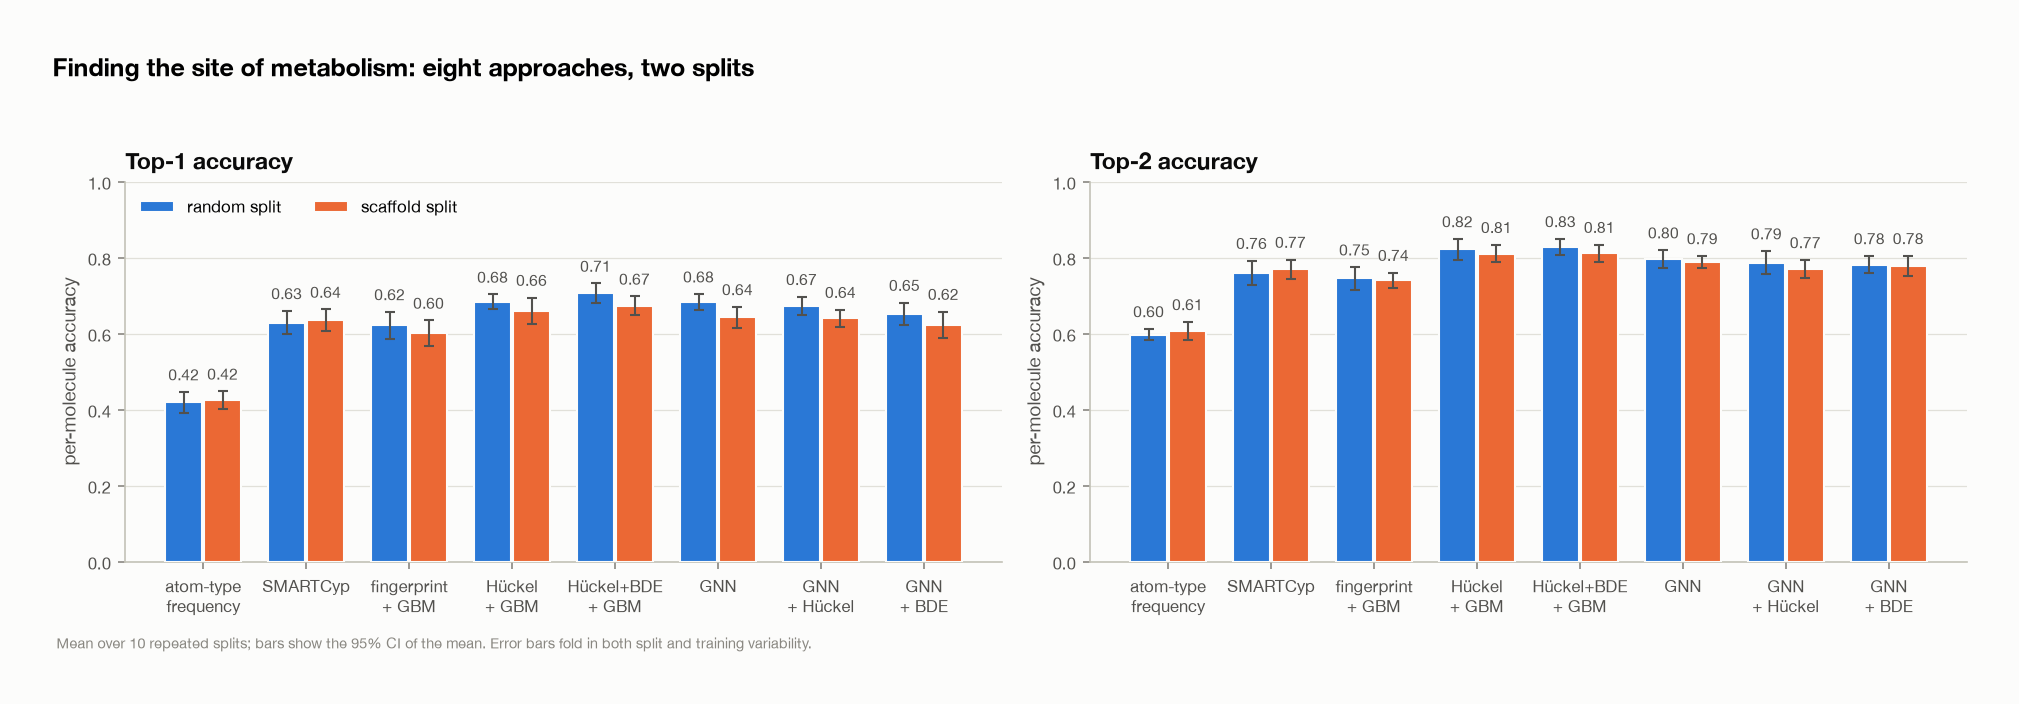
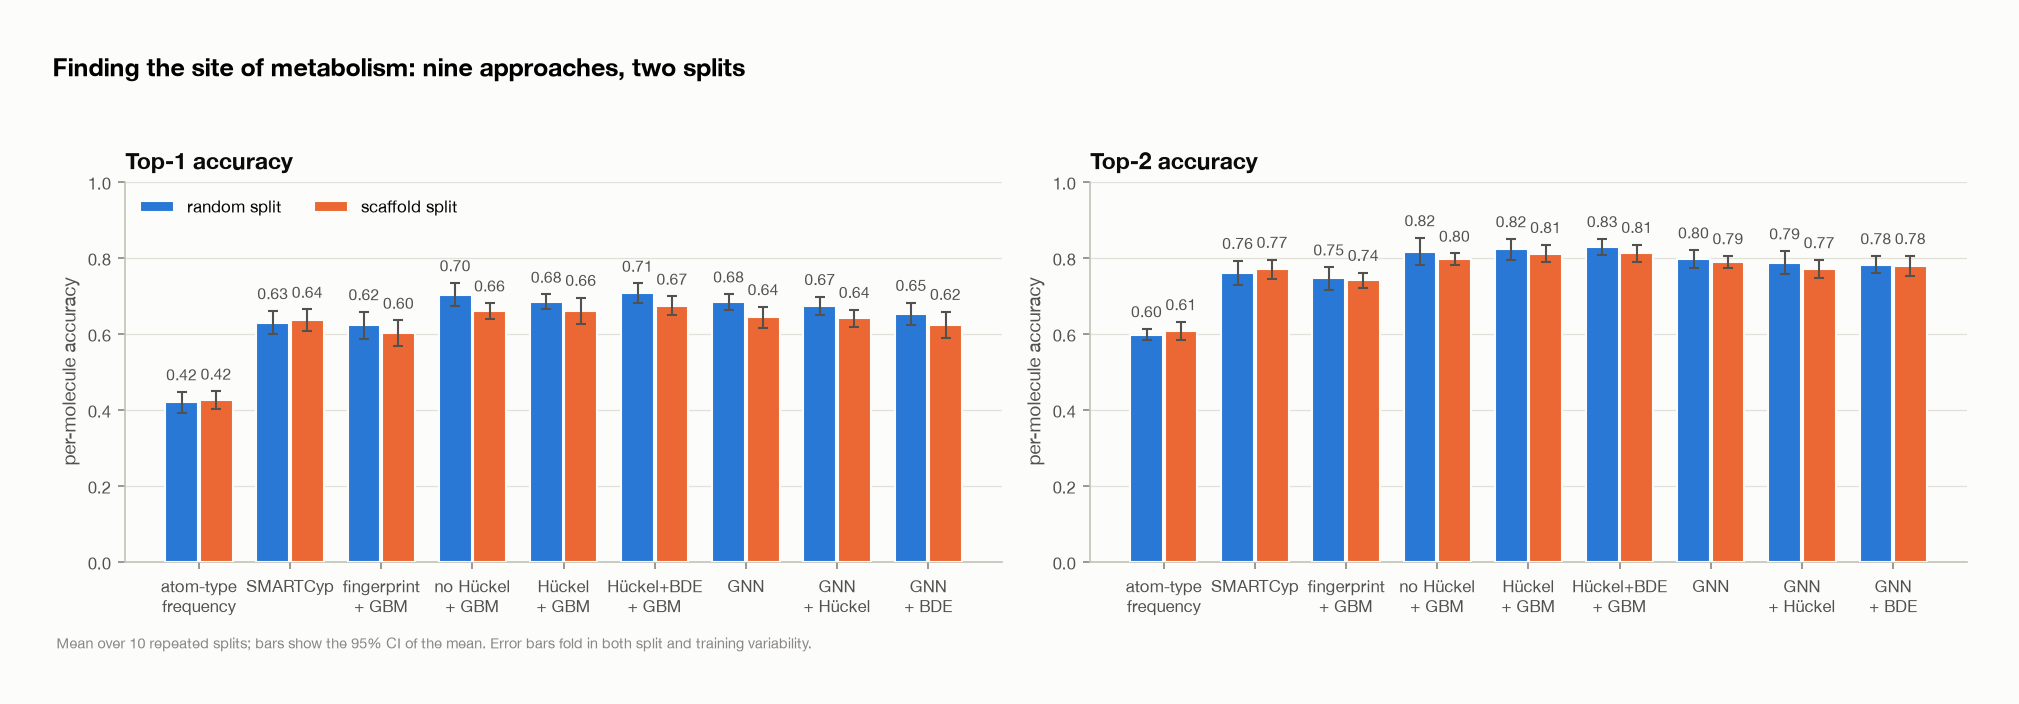
ablation: the 21 Hückel columns contribute nothing to the GBM
Adds `basic_gbm`: the same gradient-boosted estimator fitted on the `graph`
feature kind, which is exactly `phys` with huckel_block dropped and is already
asserted to be a strict prefix of it. So this isolates the Hückel theory with
estimator, splits and labels held fixed.

phys_gbm - basic_gbm, scaffold splits: top-1 +0.0007 (p = 0.96), top-2 +0.015
(p = 0.18), ROC-AUC +0.004 (p = 0.25), AP -0.016 (p = 0.11). Pooled, the only
nominally significant metric is average precision, at -0.013 (p = 0.033) --
negative. The feature-set advantage over the 1024-bit fingerprint survives
without them (+0.059 top-1 scaffold-only, p = 0.0026).

This contradicts the reading the coefficient table invites, where
huckel_free_valence is the largest non-trivial coefficient with the correct
sign. Association, not necessary information: the Hückel quantities are
largely recoverable from the atom and bond features that remain. README, the
lead bullet, and docs/HUCKEL_DESCRIPTORS.md now say so in place.

Two further consequences:
- basic_gbm and the plain GNN receive byte-identical features, so that pair is
  now the cleanest model-class comparison here. It favours the trees pooled
  (top-1 +0.019 p = 0.018, AP +0.040 p = 0.0016) but reaches significance on
  no metric on the 10 scaffold splits alone. Stated as underpowered rather
  than as support.
- The BDE top-1 gain quoted in the README was pooled; scaffold-only it is
  +0.014, p = 0.16. Corrected in place.

Changed region(s): [[0.5617, 0.3125, 0.9673, 0.875], [0.0624, 0.375, 0.4681, 0.875], [0.2184, 0.0625, 0.3744, 0.125]]

diff --git a/src/som/models.py b/src/som/models.py
@@ -68,8 +68,8 @@ from .features import AtomTable, build_atom_table, isoform_onehot
 from .splits import Split, atom_mask
 
 MODELS = (
-    "prior", "smartcyp", "fp_gbm", "phys_gbm", "gnn", "gnn_huckel",
-    "phys_bde_gbm", "gnn_bde",
+    "prior", "smartcyp", "fp_gbm", "basic_gbm", "phys_gbm", "gnn",
+    "gnn_huckel", "phys_bde_gbm", "gnn_bde",
 )
 
 #: SMARTCyp ships isoform-specific variants for 2D6 and for the 2C subfamily;
@@ -372,7 +372,7 @@ def _fit_gbm(
     p_va = clf.predict_proba(Xva)[:, 1]
 
     importance: dict[str, float] = {}
-    if kind == "phys":
+    if kind in ("phys", "graph"):
         # a linear model on the same features, fitted only so that signed
         # coefficients can be reported; it is not used for predictions
         lin = make_pipeline(
@@ -840,6 +840,13 @@ def fit_predict(
         pred = _fit_smartcyp(instances, table, split, label_field)
     elif name == "fp_gbm":
         pred = _fit_gbm("fp_gbm", "fp", instances, split, label_field, seed, tune)
+    elif name == "basic_gbm":
+        # phys minus the 21 Hückel columns. The `graph` kind is exactly the
+        # `phys` block with huckel_block dropped (and is a strict prefix of
+        # it), so this isolates what the Hückel theory contributes while the
+        # estimator, splits and labels are held fixed.
+        pred = _fit_gbm("basic_gbm", "graph", instances, split,
+                        label_field, seed, tune)
     elif name == "phys_gbm":
         pred = _fit_gbm("phys_gbm", "phys", instances, split, label_field, seed, tune)
     elif name == "phys_bde_gbm":

diff --git a/tests/test_features.py b/tests/test_features.py
@@ -115,3 +115,35 @@ def test_atom_count_mismatch_is_caught():
             "n_sources": 1}]
     with pytest.raises(ValueError, match="atom count mismatch"):
         build_atom_table(bad, "phys")
+
+
+def test_the_huckel_ablation_model_uses_the_graph_feature_set(monkeypatch):
+    """`basic_gbm` must be `phys_gbm` minus the Hückel block, nothing else.
+
+    The phys_gbm - basic_gbm comparison is only an ablation of Hückel theory
+    if basic_gbm is fitted on exactly the `phys` columns with huckel_block
+    dropped. `graph` is that set (asserted above to be a strict prefix of
+    `phys`), so this pins the dispatch to it by intercepting the fit rather
+    than by matching source text.
+    """
+    from som import models
+
+    seen = {}
+
+    def spy(name, kind, *a, **kw):
+        seen["kind"] = kind
+        raise _Stop
+
+    class _Stop(Exception):
+        pass
+
+    monkeypatch.setattr(models, "_fit_gbm", spy)
+    try:
+        models.fit_predict("basic_gbm", [], None, "som_all", 0)
+    except Exception:
+        pass
+    assert seen.get("kind") == "graph", (
+        "basic_gbm must be fitted on the 'graph' feature kind; if the "
+        f"dispatch changed (saw {seen.get('kind')!r}), the Hückel ablation "
+        "no longer isolates Hückel"
+    )

diff --git a/scripts/06_report.py b/scripts/06_report.py
@@ -12,7 +12,8 @@ import json
 from som.paths import RESULTS
 from som.viz import MODEL_LABELS
 
-ORDER = ["prior", "smartcyp", "fp_gbm", "phys_gbm", "phys_bde_gbm", "gnn", "gnn_huckel", "gnn_bde"]
+ORDER = ["prior", "smartcyp", "fp_gbm", "basic_gbm", "phys_gbm",
+         "phys_bde_gbm", "gnn", "gnn_huckel", "gnn_bde"]
 
 
 def read(name):
@@ -197,6 +198,14 @@ def main() -> None:
              "does giving the GNN the Hückel descriptors help?"),
             ("phys_gbm", "gnn_huckel",
              "same features, different model class"),
+            ("phys_gbm", "basic_gbm",
+             "what the 21 Hückel columns contribute, estimator held fixed"),
+            ("basic_gbm", "gnn",
+             "identical features, different estimator: the cleanest "
+             "model-class comparison here"),
+            ("basic_gbm", "fp_gbm",
+             "hand-built atom/bond features vs hashed environments, "
+             "no Hückel theory involved"),
             ("phys_gbm", "fp_gbm",
              "physics descriptors vs hashed environments"),
             ("phys_gbm", "prior",

diff --git a/src/som/viz.py b/src/som/viz.py
@@ -17,6 +17,7 @@ import matplotlib.pyplot as plt
 SERIES = [
     "#2a78d6", "#eb6834", "#1baf7a", "#eda100",
     "#e87ba4", "#008300", "#6250d6", "#e34948",
+    "#00868b",
 ]
 
 #: single hue for sequential/ordinal magnitude
@@ -35,6 +36,7 @@ ON_FILL = {"#eda100": "#0b0b0b"}
 MODEL_LABELS = {
     "prior": "atom-type frequency",
     "fp_gbm": "fingerprint + GBM",
+    "basic_gbm": "atom/bond features + GBM (no Hückel)",
     "phys_gbm": "Hückel physics + GBM",
     "gnn": "message-passing GNN",
     "smartcyp": "SMARTCyp (published method)",
@@ -47,6 +49,7 @@ MODEL_LABELS = {
 MODEL_LABELS_SHORT = {
     "prior": "atom-type\nfrequency",
     "fp_gbm": "fingerprint\n+ GBM",
+    "basic_gbm": "no Hückel\n+ GBM",
     "phys_gbm": "Hückel\n+ GBM",
     "gnn": "GNN",
     "smartcyp": "SMARTCyp",

diff --git a/scripts/03_evaluate.py b/scripts/03_evaluate.py
@@ -143,8 +143,10 @@ def main() -> None:
                       f"auc {raw['roc_auc']:.3f}  ap {raw['avg_precision']:.3f}  "
                       f"ece {raw['ece']:.3f}  ({dt:.0f}s)")
 
-                if name == "phys_gbm" and pred.feature_importance and seed == 0:
-                    out = RESULTS / f"phys_linear_coefficients_{mode}.csv"
+                if (name in ("phys_gbm", "basic_gbm")
+                        and pred.feature_importance and seed == 0):
+                    stem = ("phys" if name == "phys_gbm" else "basic")
+                    out = RESULTS / f"{stem}_linear_coefficients_{mode}.csv"
                     with out.open("w", newline="") as fh:
                         w = csv.writer(fh)
                         w.writerow(["feature", "coefficient"])

diff --git a/scripts/05_figures.py b/scripts/05_figures.py
@@ -32,7 +32,7 @@ from som.viz import (
 )
 
 ORDER = [
-    "prior", "smartcyp", "fp_gbm", "phys_gbm", "phys_bde_gbm",
+    "prior", "smartcyp", "fp_gbm", "basic_gbm", "phys_gbm", "phys_bde_gbm",
     "gnn", "gnn_huckel", "gnn_bde",
 ]
 
@@ -114,7 +114,7 @@ def fig_main(summary):
 
     axes[0].legend(loc="upper left", ncols=2, bbox_to_anchor=(0, 1.0))
     fig.suptitle(
-        "Finding the site of metabolism: eight approaches, two splits",
+        "Finding the site of metabolism: nine approaches, two splits",
         x=0.008, ha="left", fontsize=12, fontweight="semibold",
     )
     footnote(

diff --git a/README.md b/README.md
@@ -19,8 +19,11 @@ Three results worth more than that number:
 
 - **A 2010 SMARTS lookup table beats two of the six trained models.** SMARTCyp
   touches no training data and lands within 0.058 top-1 of the best model here.
-- **A 55-feature physics set, 21 of them Hückel-derived, beats 1024 hashed fingerprint bits**
-  (+0.061 top-1, p < 0.0001) and beat a GNN given identical inputs.
+- **A 55-feature physics set beats 1024 hashed fingerprint bits** (+0.061
+  top-1, p < 0.0001) — but an ablation shows the 21 Hückel-derived columns
+  contribute **nothing** to that (+0.001 top-1, p = 0.96, scaffold splits).
+  The cheap atom and bond context does the work; the π-system theory is
+  decorative, despite having the largest non-trivial coefficient.
 - **A twelve-point hyperparameter search for the GNN found nothing** — and the
   measurement had to be fixed first, because nondeterministic thread scheduling
   was producing run-to-run noise larger than the differences being searched
@@ -85,6 +88,7 @@ The scaffold split is the one to read first.
 | atom-type frequency | 0.425 [0.402, 0.448] | 0.607 [0.583, 0.631] | 0.802 [0.790, 0.814] | 0.274 | 0.025 |
 | SMARTCyp (external, untrained) | 0.635 [0.607, 0.663] | 0.770 [0.744, 0.795] | 0.826 [0.812, 0.840] | 0.341 | 0.018 |
 | fingerprint + GBM | 0.601 [0.568, 0.635] | 0.741 [0.721, 0.760] | 0.871 [0.865, 0.878] | 0.499 | 0.018 |
+| atom/bond features + GBM (no Hückel) | 0.660 [0.639, 0.680] | 0.795 [0.780, 0.811] | 0.884 [0.873, 0.895] | 0.547 | 0.020 |
 | Hückel physics + GBM | 0.660 [0.626, 0.695] | 0.811 [0.787, 0.834] | 0.887 [0.876, 0.899] | 0.531 | 0.019 |
 | **Hückel + BDE + GBM** | **0.674 [0.650, 0.698]** | **0.812 [0.789, 0.834]** | **0.907 [0.899, 0.915]** | **0.584** | 0.019 |
 | message-passing GNN (tuned) | 0.643 [0.615, 0.670] | 0.788 [0.771, 0.804] | 0.880 [0.869, 0.891] | 0.504 | 0.026 |
@@ -110,10 +114,38 @@ a molecule — which is what top-k measures and what a chemist wants — but ran
 poorly across the whole atom pool. A good illustration of why this project
 reports both.
 
-**The physics descriptors beat the hashed fingerprint, clearly.** Paired over 20
-splits, Hückel + GBM gains +0.061 top-1 [+0.045, +0.076] and +0.073 top-2 over
-fingerprint + GBM, both p < 0.0001. Fifty-five interpretable descriptors, 21 of
-them Hückel-derived, beat 1024 hashed bits.
+**Hand-built descriptors beat the hashed fingerprint, clearly — but the Hückel
+theory is not what does it.** Paired over 20 splits, the physics set gains
++0.061 top-1 [+0.045, +0.076] and +0.073 top-2 over fingerprint + GBM, both
+p < 0.0001. Fifty-five interpretable descriptors beat 1024 hashed bits.
+
+Dropping the 21 Hückel columns and refitting the same estimator on the
+remaining 34 basic atom and bond features costs **nothing**:
+
+| phys_gbm − basic_gbm | pooled [95% CI] | p | scaffold only [95% CI] | p |
+|---|---|---|---|---|
+| top-1 | −0.009 [−0.025, +0.007] | 0.25 | +0.001 [−0.026, +0.027] | 0.96 |
+| top-2 | +0.011 [−0.003, +0.024] | 0.12 | +0.015 [−0.008, +0.039] | 0.18 |
+| ROC-AUC | +0.002 [−0.001, +0.006] | 0.23 | +0.004 [−0.003, +0.011] | 0.25 |
+| avg precision | −0.013 [−0.024, −0.001] | 0.033 | −0.016 [−0.037, +0.005] | 0.11 |
+
+Twenty-one Hückel columns, and the only nominally significant entry is
+*negative*. The feature-set advantage over the fingerprint survives intact
+without them (+0.059 top-1 scaffold-only, p = 0.0026), so what beats the
+hashed bits is the cheap atom and bond context — element, hybridization,
+degree, hydrogen count, ring membership, Gasteiger charge — not the π-system
+theory.
+
+This is worth stating plainly because the signed coefficients invite the
+opposite reading. `huckel_free_valence` is the largest non-trivial coefficient
+in the linear proxy fit, with the chemically correct sign, and
+`huckel_frag_x_homo` correctly says a higher-lying HOMO is more vulnerable.
+Both are real *associations*. Neither is *information the model needed*: the
+Hückel quantities are largely recoverable from the atom and bond features that
+remain, and `huckel_free_valence` correlates at r = +0.89 with `huckel_q_pi`
+inside the block. A coefficient table shows what correlates with the label; only
+an ablation shows what the model would miss. They disagree here, and the
+ablation is the one that answers the question.
 
 **Transferred DFT bond dissociation energies help the GBM.** ALFABET predicts
 C–H BDEs at ~0.6 kcal/mol against DFT in milliseconds, having been trained on
@@ -127,8 +159,12 @@ C–H BDEs at ~0.6 kcal/mol against DFT in milliseconds, having been trained on
 | avg precision | +0.048 [+0.038, +0.058] | <0.0001 |
 
 A modest top-1 gain and a solid one in atom-level ranking. This is the one
-addition that brought in information from outside the dataset, and it is the
-only feature set that improved on the Hückel descriptors.
+addition that brought in information from outside the dataset, and — now that
+the Hückel block is measured to add nothing — the only feature block in the
+project that demonstrably improves on the basic atom and bond features.
+Note that its top-1 gain is pooled across both split modes; on the scaffold
+splits alone it is +0.014 [−0.007, +0.034], p = 0.16, so the durable BDE
+result is the ranking improvement, not the top-1 one.
 
 **But extra node features make the GNN *worse*, not better — and that is the
 most informative result here.** Giving the GNN the identical feature set
@@ -188,8 +224,25 @@ This now rests on a tuned comparison rather than a default one — each variant
 got its own search, described [below](#the-gnn-hyperparameter-search), so it is
 not an artifact of the plain GNN having been luckier with its hyperparameters.
 
-**Which means the Hückel model's advantage is not about chemistry at all — it is
-about model class.** On *identical* features, gradient boosting beats the GNN:
+**Which means the physics model's advantage is not about chemistry at all — it
+is about model class.** The Hückel ablation above says the same thing from the
+other direction. The cleanest demonstration is `basic_gbm` against the plain
+GNN, because those two are handed *byte-identical* feature matrices — the
+`graph` kind is exactly what both receive:
+
+| basic_gbm − gnn | pooled [95% CI] | p | scaffold only [95% CI] | p |
+|---|---|---|---|---|
+| top-1 | +0.019 [+0.004, +0.034] | 0.018 | +0.017 [−0.011, +0.045] | 0.20 |
+| top-2 | +0.013 [−0.001, +0.028] | 0.074 | +0.007 [−0.013, +0.027] | 0.43 |
+| ROC-AUC | +0.006 [−0.002, +0.014] | 0.14 | +0.003 [−0.013, +0.019] | 0.65 |
+| avg precision | +0.040 [+0.017, +0.062] | 0.0016 | +0.043 [−0.003, +0.089] | 0.063 |
+
+Boosted trees are ahead pooled on top-1 and average precision, and no metric
+reaches significance on the 10 scaffold splits alone. So at n = 10 scaffold
+splits this project **cannot** separate the two estimators on identical
+features; the model-class claim is supported pooled and is underpowered on the
+harder split. The older comparison below adds the Hückel columns to the GBM
+side, which no longer isolates anything now that they are measured to be inert:
 
 | phys_gbm − gnn_huckel | pooled [95% CI] | p | scaffold only [95% CI] | p |
 |---|---|---|---|---|
@@ -762,13 +815,22 @@ In rough order of what would most change the conclusions:
    here, which tests the data-limited explanation directly instead of assuming
    it.
 
-Three items that used to be on this list — the GNN-with-Hückel ablation, the
-SMARTCyp baseline, and a proper GNN hyperparameter search — are now done. The
-first two changed the conclusions; the third confirmed one, which is the less
-exciting outcome and the more useful one. Real DFT single points for ALIE and
-condensed Fukui functions remain untried; given that transferred BDEs helped the
-GBM and actively hurt the GNN, the expected value is moderate and the cost is a
-cluster run.
+Four items that used to be on this list — the GNN-with-Hückel ablation, the
+SMARTCyp baseline, a proper GNN hyperparameter search, and the Hückel-block
+ablation — are now done. Three changed the conclusions; the hyperparameter
+search confirmed one, which is the less exciting outcome and the more useful
+one. The Hückel ablation was the most costly: it removed the project's
+nominal headline, since the descriptor set that names the repository turns out
+to contribute nothing the basic atom and bond features do not already carry.
+
+Real DFT single points for ALIE and condensed Fukui functions remain untried.
+The case for them is now *weaker*, not stronger: if 21 Hückel columns are
+redundant with cheap atom context, better π-electronic descriptors may be too,
+and the honest prior is that the ceiling here is set by 3D accessibility and
+by the positive-unlabelled nature of the labels rather than by electronic
+structure. The cheap version of that test — permutation importance on the GBM
+to see whether *any* electronic feature survives conditioning — costs minutes
+and should come before a cluster run.
 
 ---
 

diff --git a/results/summary.md b/results/summary.md
@@ -21,6 +21,7 @@ Mean over repeated splits, with the 95% CI of the mean.
 | atom-type frequency | 0.419 [0.392, 0.446] | 0.597 [0.582, 0.612] | 0.799 [0.786, 0.812] | 0.278 [0.263, 0.292] | 0.023 |
 | SMARTCyp (published method) | 0.629 [0.598, 0.660] | 0.760 [0.729, 0.792] | 0.822 [0.811, 0.833] | 0.340 [0.321, 0.359] | 0.016 |
 | fingerprint + GBM | 0.622 [0.586, 0.657] | 0.745 [0.716, 0.775] | 0.879 [0.868, 0.889] | 0.523 [0.495, 0.550] | 0.023 |
+| atom/bond features + GBM (no Hückel) | 0.703 [0.672, 0.733] | 0.816 [0.779, 0.852] | 0.901 [0.891, 0.910] | 0.599 [0.565, 0.632] | 0.012 |
 | Hückel physics + GBM | 0.684 [0.664, 0.703] | 0.822 [0.794, 0.849] | 0.901 [0.891, 0.911] | 0.589 [0.558, 0.620] | 0.035 |
 | Hückel + BDE + GBM | 0.706 [0.680, 0.732] | 0.828 [0.806, 0.849] | 0.916 [0.907, 0.925] | 0.631 [0.602, 0.661] | 0.024 |
 | message-passing GNN | 0.682 [0.661, 0.704] | 0.797 [0.774, 0.820] | 0.892 [0.880, 0.904] | 0.562 [0.535, 0.589] | 0.021 |
@@ -34,6 +35,7 @@ Mean over repeated splits, with the 95% CI of the mean.
 | atom-type frequency | 0.425 [0.402, 0.448] | 0.607 [0.583, 0.631] | 0.802 [0.790, 0.814] | 0.274 [0.261, 0.287] | 0.025 |
 | SMARTCyp (published method) | 0.635 [0.607, 0.663] | 0.770 [0.744, 0.795] | 0.826 [0.812, 0.840] | 0.341 [0.311, 0.370] | 0.018 |
 | fingerprint + GBM | 0.601 [0.568, 0.635] | 0.741 [0.721, 0.760] | 0.871 [0.865, 0.878] | 0.499 [0.477, 0.522] | 0.018 |
+| atom/bond features + GBM (no Hückel) | 0.660 [0.639, 0.680] | 0.795 [0.780, 0.811] | 0.884 [0.873, 0.895] | 0.547 [0.525, 0.568] | 0.022 |
 | Hückel physics + GBM | 0.660 [0.626, 0.695] | 0.811 [0.787, 0.834] | 0.887 [0.876, 0.899] | 0.531 [0.499, 0.562] | 0.019 |
 | Hückel + BDE + GBM | 0.674 [0.650, 0.698] | 0.812 [0.789, 0.834] | 0.907 [0.899, 0.915] | 0.584 [0.552, 0.616] | 0.019 |
 | message-passing GNN | 0.643 [0.615, 0.670] | 0.788 [0.771, 0.804] | 0.880 [0.869, 0.891] | 0.504 [0.459, 0.549] | 0.026 |
@@ -186,6 +188,33 @@ Paired t-tests on the per-split differences. The pooled column averages the rand
 | top2 | +0.0379 [+0.0247, +0.0510] | 0.0000 | +0.0405 [+0.0191, +0.0619] | 0.0021 |
 | roc_auc | +0.0185 [+0.0138, +0.0231] | 0.0000 | +0.0189 [+0.0126, +0.0253] | 0.0001 |
 | avg_precision | +0.0427 [+0.0317, +0.0536] | 0.0000 | +0.0440 [+0.0226, +0.0655] | 0.0012 |
+
+**phys_gbm − basic_gbm** — what the 21 Hückel columns contribute, estimator held fixed (pooled over 20 splits; scaffold column is the 10 scaffold splits alone)
+
+| metric | pooled difference [95% CI] | p | scaffold only [95% CI] | p |
+|---|---|---|---|---|
+| top1 | -0.0090 [-0.0248, +0.0067] | 0.2457 | +0.0007 [-0.0257, +0.0270] | 0.9552 |
+| top2 | +0.0107 [-0.0031, +0.0244] | 0.1202 | +0.0152 [-0.0084, +0.0388] | 0.1788 |
+| roc_auc | +0.0021 [-0.0014, +0.0056] | 0.2316 | +0.0037 [-0.0031, +0.0105] | 0.2522 |
+| avg_precision | -0.0127 [-0.0243, -0.0011] | 0.0334 | -0.0160 [-0.0365, +0.0045] | 0.1109 |
+
+**basic_gbm − gnn** — identical features, different estimator: the cleanest model-class comparison here (pooled over 20 splits; scaffold column is the 10 scaffold splits alone)
+
+| metric | pooled difference [95% CI] | p | scaffold only [95% CI] | p |
+|---|---|---|---|---|
+| top1 | +0.0185 [+0.0035, +0.0335] | 0.0180 | +0.0169 [-0.0107, +0.0445] | 0.2001 |
+| top2 | +0.0131 [-0.0014, +0.0275] | 0.0738 | +0.0074 [-0.0126, +0.0274] | 0.4260 |
+| roc_auc | +0.0061 [-0.0022, +0.0143] | 0.1399 | +0.0033 [-0.0128, +0.0194] | 0.6547 |
+| avg_precision | +0.0396 [+0.0171, +0.0621] | 0.0016 | +0.0431 [-0.0028, +0.0890] | 0.0627 |
+
+**basic_gbm − fp_gbm** — hand-built atom/bond features vs hashed environments, no Hückel theory involved (pooled over 20 splits; scaffold column is the 10 scaffold splits alone)
+
+| metric | pooled difference [95% CI] | p | scaffold only [95% CI] | p |
+|---|---|---|---|---|
+| top1 | +0.0696 [+0.0511, +0.0882] | 0.0000 | +0.0585 [+0.0264, +0.0906] | 0.0026 |
+| top2 | +0.0625 [+0.0472, +0.0778] | 0.0000 | +0.0547 [+0.0268, +0.0826] | 0.0016 |
+| roc_auc | +0.0171 [+0.0112, +0.0230] | 0.0000 | +0.0122 [+0.0024, +0.0220] | 0.0204 |
+| avg_precision | +0.0616 [+0.0458, +0.0774] | 0.0000 | +0.0474 [+0.0272, +0.0675] | 0.0005 |
 
 **phys_gbm − fp_gbm** — physics descriptors vs hashed environments (pooled over 20 splits; scaffold column is the 10 scaffold splits alone)
 

diff --git a/docs/HUCKEL_DESCRIPTORS.md b/docs/HUCKEL_DESCRIPTORS.md
@@ -11,6 +11,16 @@ so `phys` = `graph` + this file, strictly additively. That is asserted in
 `tests/test_features.py`, because the `gnn` against `gnn_huckel` ablation is
 only meaningful if it holds.
 
+> **Do these features earn their place? Measured: no.** Dropping all 21 of them
+> and refitting the same GBM on the remaining 34 costs +0.001 top-1 (p = 0.96)
+> on the scaffold splits, and the only nominally significant metric is a
+> *negative* one. They carry genuine association with the label —
+> `huckel_free_valence` has the largest non-trivial coefficient in the linear
+> proxy fit, with the correct sign — but nothing the basic atom and bond
+> features do not already supply. The `phys_gbm − basic_gbm` block in
+> [`results/summary.md`](../results/summary.md) is the measurement. This file
+> documents what the descriptors are, not a claim that they help.
+
 `tests/test_huckel_docs.py` asserts that the tables below list exactly the
 Hückel feature columns the code emits, so this document cannot drift from the
 implementation.
